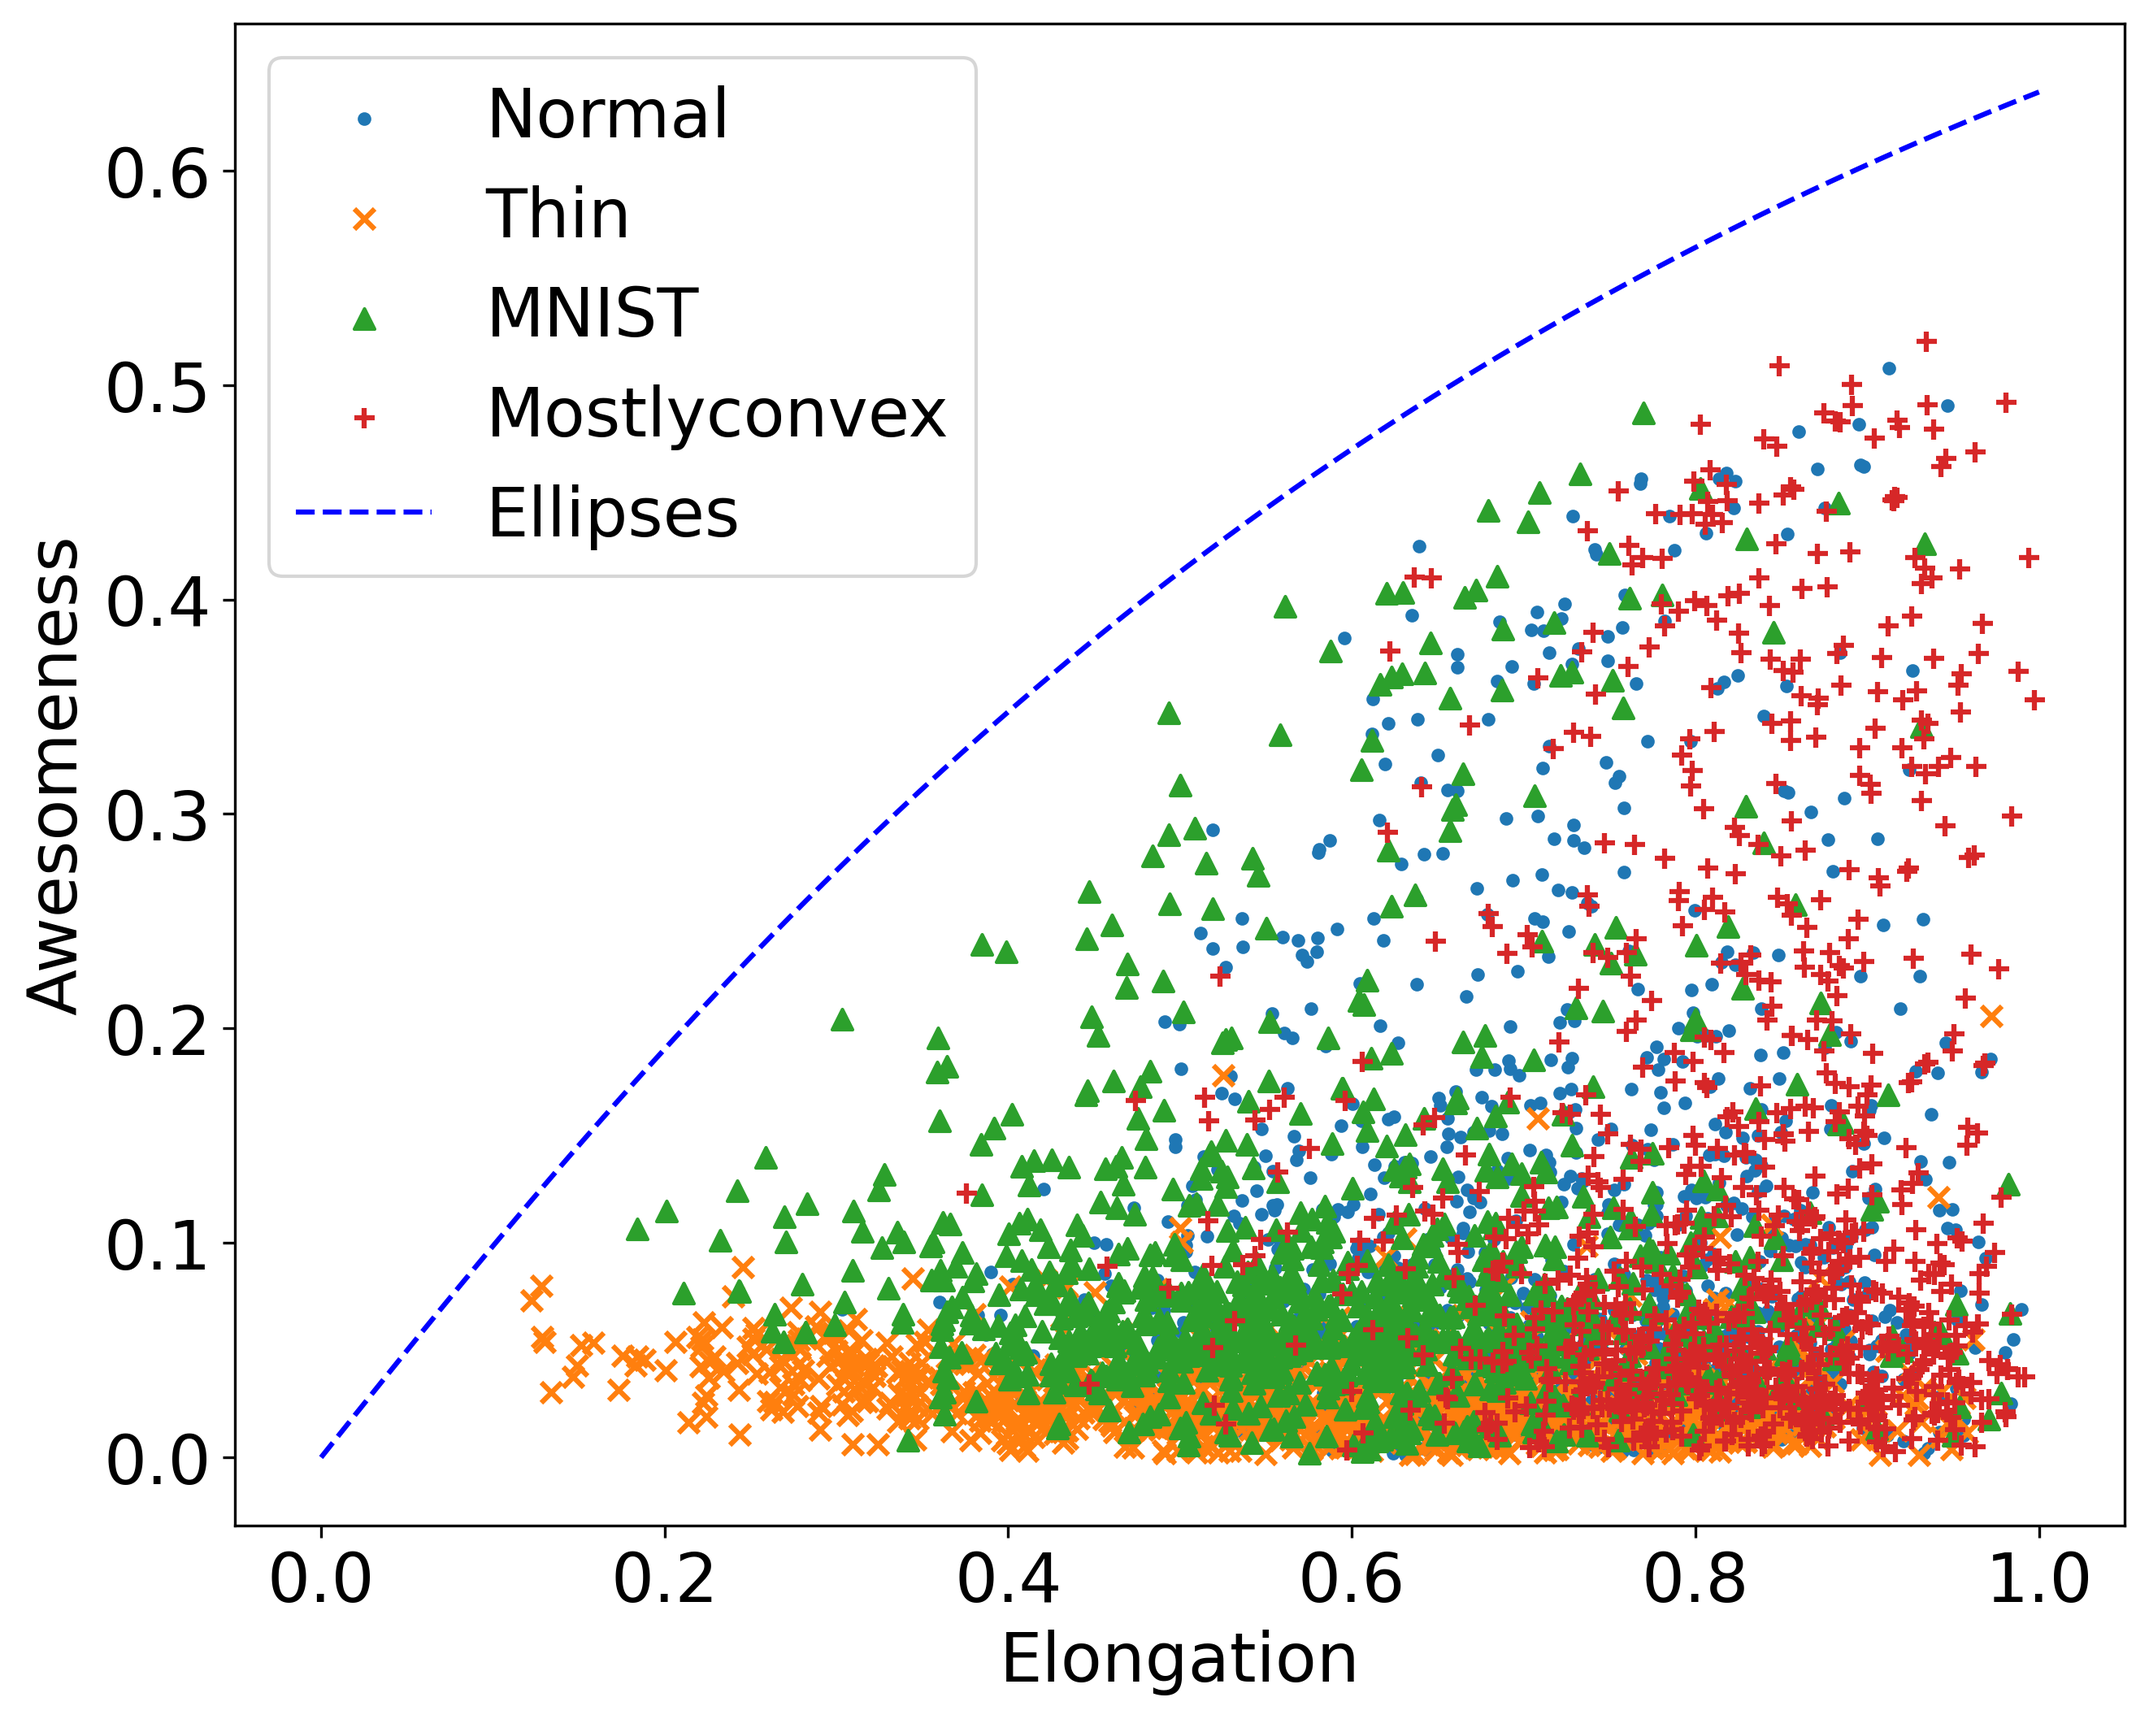
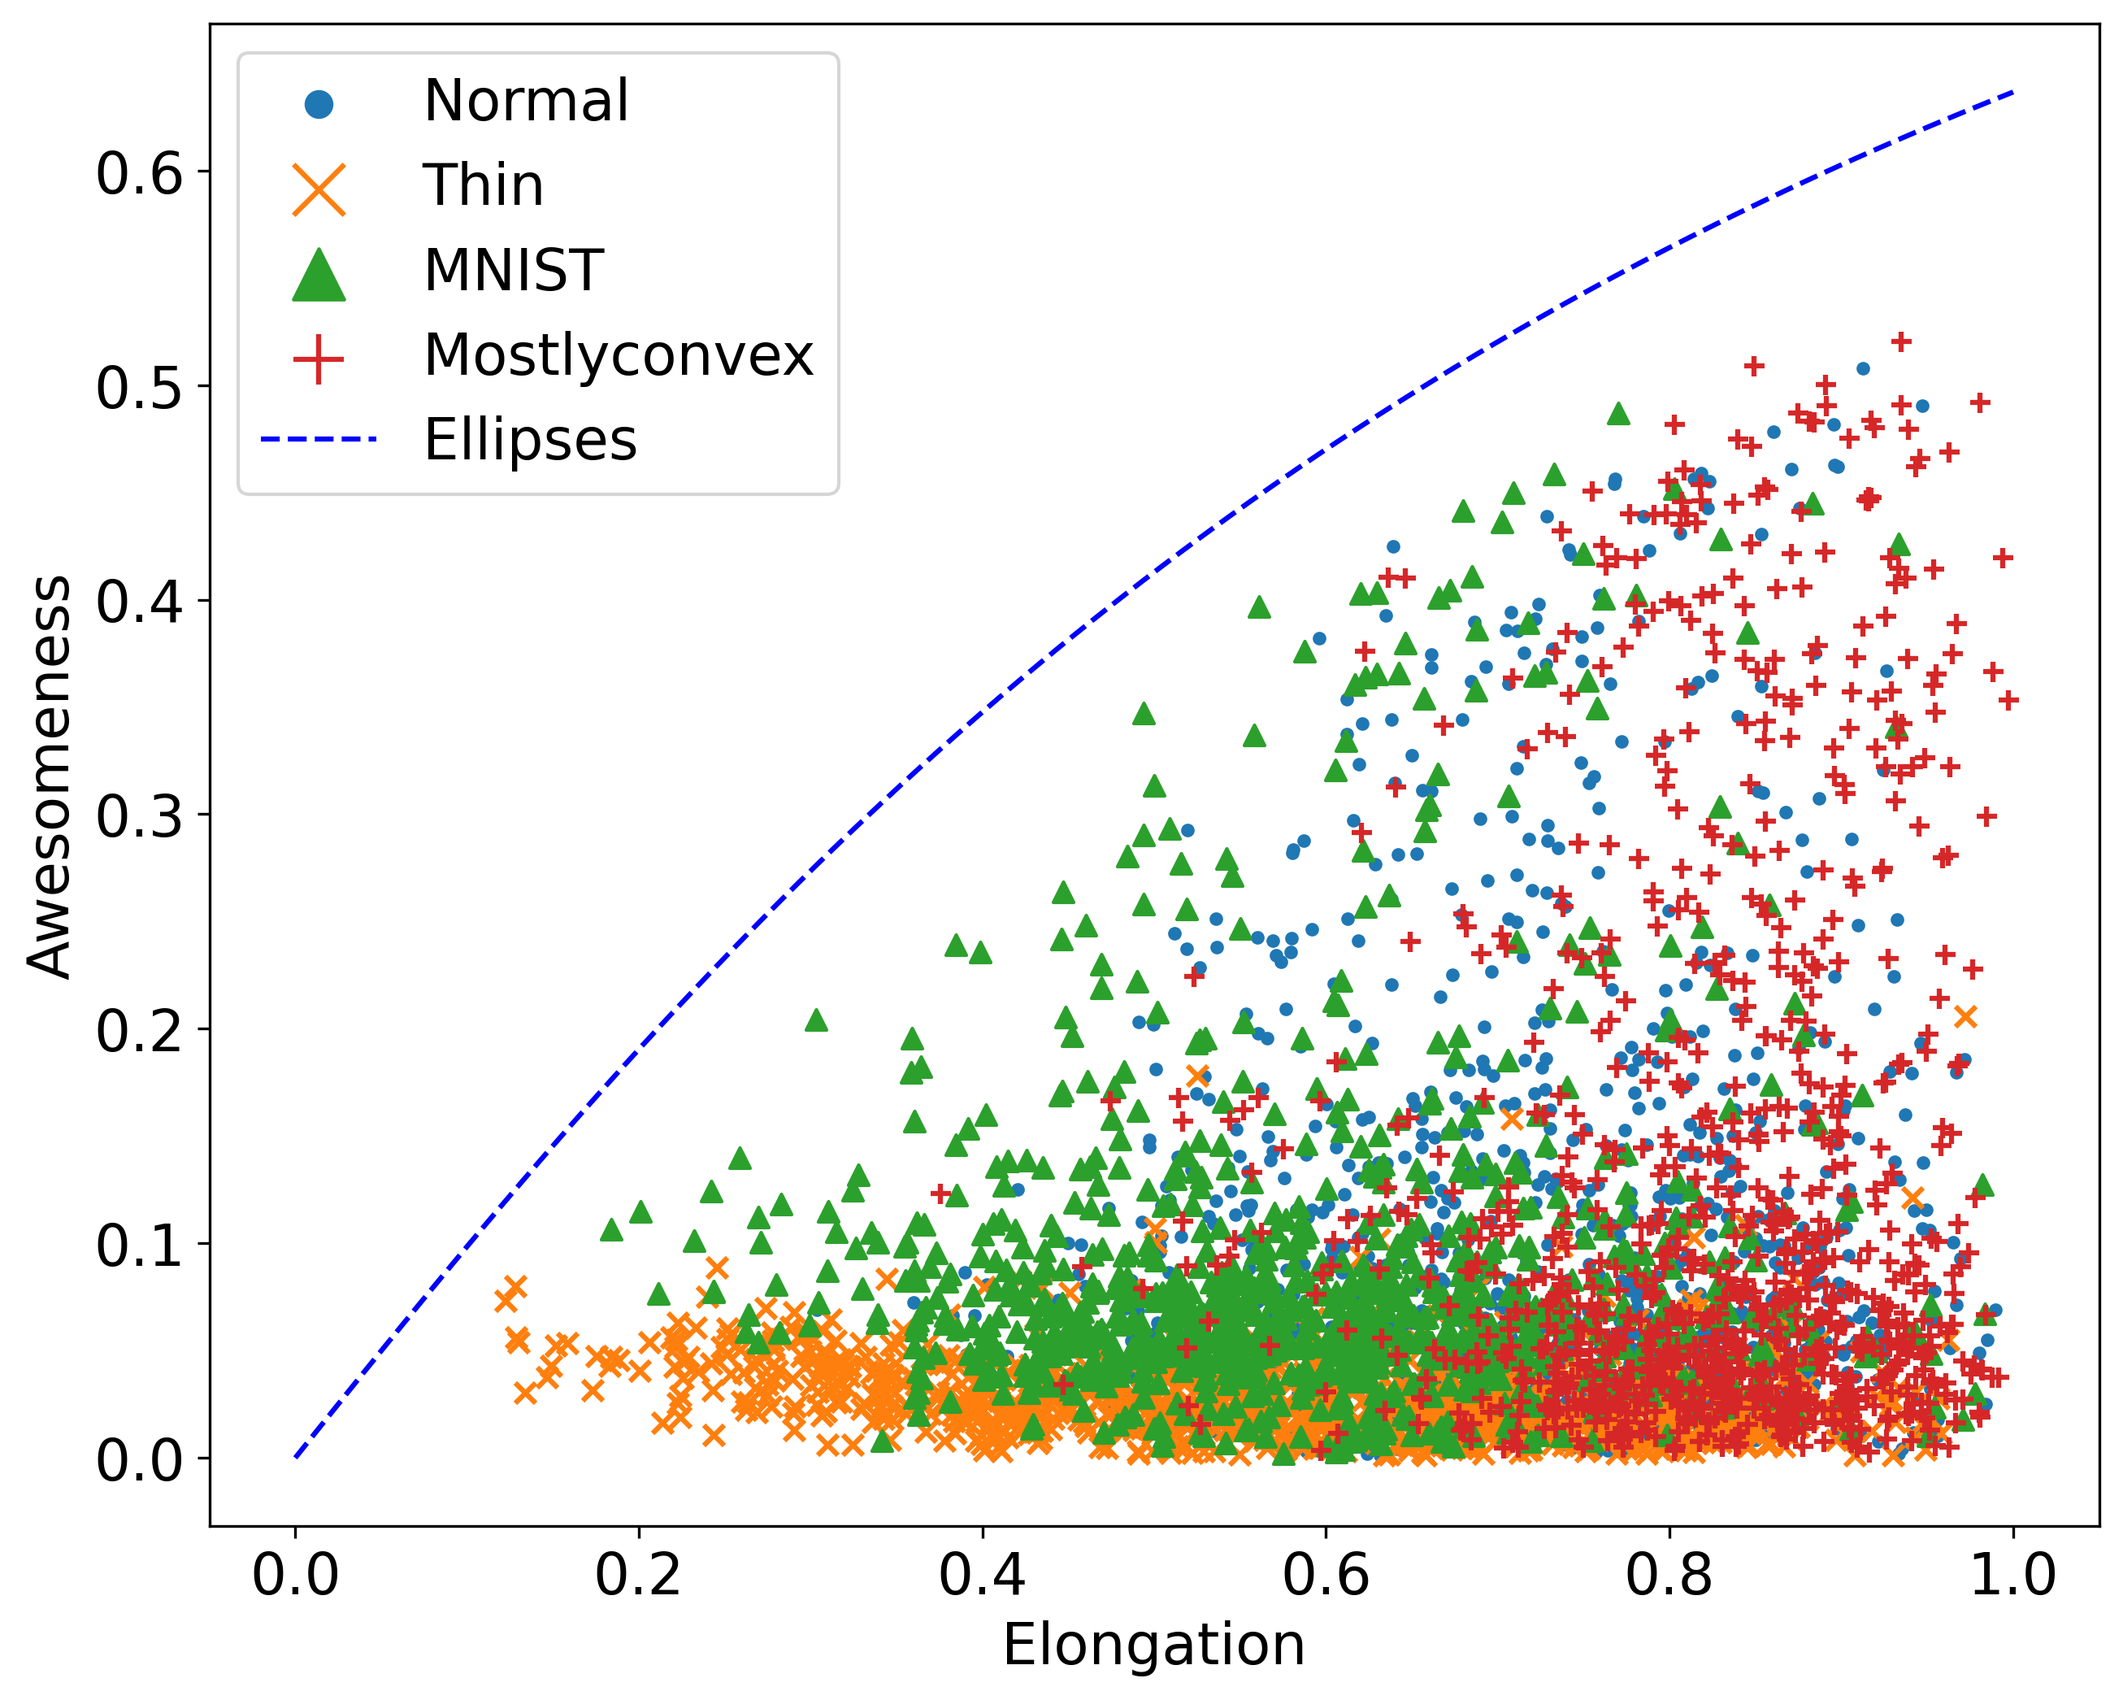
Further progress

diff --git a/paper.tex b/paper.tex
@@ -77,6 +77,7 @@ $B$ is a set of all points on the pore's boundary. We define a new pore shape
 parameter $p$, called ``\highlight{awesomeness}'', using \ref{eq:intro}:
 \begin{equation}
   p = \inf \{p_{AB} \ \forall (A, B) \in B^2\}
+  \label{eq:awesomeness}
 \end{equation}
 Obviously, it's unlikely that $p$ = $p_{AC}$ because $L_{AC} \approx \rho_{AC}$.
 It's easy to see that $0 \le p \le 1$ because $0 \le \rho_{AB} \le L_{AB}$ for
@@ -300,7 +301,7 @@ degenerate shapes in the form of line segments. The biggest value for
 non-degenerate shapes is reached for a disk and equals to $2/\pi$.
 
 \section{Results}
-We computed \highlight{awesomness} for 4000 synthetically generated images with
+We computed \highlight{awesomeness} for 4000 synthetically generated images with
 dimensions $1000 \times 1000$ pixels (1000 images from 4 different
 datasets). The datasets have the following properties:
 \begin{itemize}
@@ -312,7 +313,7 @@ datasets). The datasets have the following properties:
 \end{itemize}
 Figure \ref{fig:pores} depicts a pore from each dataset.
 \begin{figure}
-    \centering
+  \centering
   \subfigure[\texttt{normal}]{
     \includegraphics[width=0.4\linewidth]{images/normal.png}}
   \subfigure[\texttt{thin}]{
@@ -327,8 +328,87 @@ Figure \ref{fig:pores} depicts a pore from each dataset.
   \label{fig:pores}
 \end{figure}
 
-\section{Comparison with other parameters}
-\highlight{CEA vs CER}.
+Summarly 3901 images out of 4000 (97.5\%) were good enough for \texttt{sort} to
+sort boundary points in pores. For these images we also computed commonly used
+convexity and elongation parameters. On \cref{fig:cae-space} each pore is
+represented as a dot in convexity-elongation-\highlight{awesomeness} (CEA)
+space.
+\begin{figure*}
+  \centering
+  \subfigure[Convexity-elongation-\highlight{awesomeness} space]{
+    \includegraphics[width=0.4\linewidth]{images/cae.png}
+    \label{fig:cae-space}}
+  \hfill
+  \subfigure[Convexity-elongation-roundness space]{
+    \includegraphics[width=0.4\linewidth]{images/cer.png}
+    \label{fig:cer-space}}
+  \vskip\baselineskip
+  \subfigure[Elongation-\highlight{Awesomeness} space]{
+    \includegraphics[width=0.4\linewidth]{images/ae.png}
+    \label{fig:ae-space}}
+  \hfill
+  \subfigure[Convexity-elongation-\highlight{improved awesomeness} space]{
+    \includegraphics[width=0.4\linewidth]{images/caei.png}
+    \label{fig:caei-space}}
+  \caption[]{Synthetically generated pores shown as points in different
+    parameter spaces.}
+  \label{fig:parameter-spaces}
+\end{figure*}
+
+It can be seen that if a pore has low convexity ($< 0.6$)
+\highlight{awesomeness} adds no information to the pore's descriptors because it
+stays relatively low for all pores. When, however, the convexity is high it adds
+a new dimension to the parameter space. \highlight{Awesomeness} also correlates
+with elongation, but this correlation can be reduced. Remember, that a disk has
+the biggest known \highlight{awesomeness}. Similarly, an ellipse defined as
+\begin{equation*}
+  \frac{x^2}{a^2} + \frac{y^2}{b^2} = 1
+\end{equation*}
+has the biggest known \highlight{awesomeness} from all shapes with elongation
+$E = a / b$ (suppose $a \le b$) (see \cref{fig:ae-space}). Using Ramanujan's
+formular for the perimeter of an ellipse we get
+\begin{equation*}
+  p \le p_{ellipse} = \frac{2a}{P/2} \approx \frac{4E}{\pi[3(1+E) - \sqrt{(3E+1)(E+3)}]}
+\end{equation*}
+By dividing \highlight{awesomeness} by $p_{ellipse}$ we obtain an improved
+parameter $p'$:
+\begin{equation}
+  p' = \frac{\pi p [3(1+E) - \sqrt{(3E+1)(E+3)}]}{4E}
+  \label{eq:improved-awesomeness}
+\end{equation}
+Indeed, on \cref{fig:caei-space} we see that improved awesomeness is less
+correlated with elongation.
+
+Another common parameter for describing pore shapes is roundness. Figure
+\ref{fig:cer-space} features convexity-elongation-roundness (CER) space.
+It can be seen that roundness-convexity correlation is bigger than
+awesomeness-convexity correlation. All correlation values are in
+\cref{tab:correlations}.
+\begin{table*}[!htp]
+  \centering
+  \begin{tabular}{|c|c|c|c|c|}
+    \hline
+    & Awesomeness & Elongation & Convexity & Roundness \\
+    \hline
+    Awesomeness & 1 & 0.049 & 0.557 & 0.745 \\
+    \hline
+    Elongation & & 1 & 0.457 & 0.355 \\
+    \hline
+    Convexity &&& 1 & 0.922 \\
+    \hline
+    Roundness &&&& 1 \\
+    \hline
+  \end{tabular}
+  \caption{Correlation between shape describing parameters.}
+  \label{tab:correlations}
+\end{table*}
+
+To test abilities of the awesomeness parameter we now divide our pores in groups
+with different convexity. The first group has pores with convexity $0.55 \le C < 0.65$,
+the second -- $0.65 \le C < 0.75$, the third -- $0.75 \le C < 0.85$ and the fourth
+-- $0.85 \le C < 0.95$. Five images with the biggest awesomeness and five images
+with the smallest awesomeness from each group are shown on \highlight{image
+  number 100500}.
 
 \bibliography{paper}
 \end{document}

diff --git a/scripts/plot-cae.py b/scripts/plot-cae.py
@@ -5,11 +5,15 @@ import matplotlib.pyplot as plt
 import pandas as pd
 import sqlite3
 
+f = lambda e: 4*e/(np.pi * (3*(1+e) - np.sqrt((3*e+1) * (e+3))))
+
 with sqlite3.connect('glyphs.db') as db:
     general = pd.read_sql_query('select * from pores where lfer > 0.9', db)
 
 shit = pd.read_csv('score.csv')
 data = general.merge(shit, on = 'label', how = 'inner', validate = "1:1")
+
+data['score'] = data['score'] / f(data['elongation'])
 
 normal = data.query('name == "normal/"')
 thin = data.query('name == "thin/"')
@@ -17,15 +21,15 @@ mnist = data.query('name == "mnist/"')
 mostlyconvex = data.query('name == "mostlyconvex/"')
 
 fig = plt.figure(figsize = (10, 9), dpi = 300)
-plt.rc('font', size = 14)
+plt.rc('font', size = 17)
 ax = fig.add_subplot(projection = '3d')
+ax.view_init(elev = 18, azim = -40, roll = 0)
 ax.scatter(normal['convexity'], normal['elongation'], normal['score'], marker = '.')
 ax.scatter(thin['convexity'], thin['elongation'], thin['score'], marker = 'x')
 ax.scatter(mnist['convexity'], mnist['elongation'], mnist['score'], marker = '^')
 ax.scatter(mostlyconvex['convexity'], mostlyconvex['elongation'], mostlyconvex['score'], marker = '+')
-ax.set_xlabel('Convexity')
-ax.set_ylabel('Elongation')
+ax.set_xlabel('\nConvexity', linespacing = 2)
+ax.set_ylabel('\nElongation', linespacing = 2)
 ax.set_zlabel('Awesomeness')
-ax.view_init(elev = 18, azim = -40, roll = 0)
 ax.legend(['Normal', 'Thin', 'MNIST', 'Mostlyconvex'], markerscale = 2.5)
-plt.savefig('cae.png', bbox_inches = 'tight', pad_inches = 0.4)
+plt.savefig('caei.png', bbox_inches = 'tight', pad_inches = 0.4)

diff --git a/scripts/plot-cer.py b/scripts/plot-cer.py
@@ -1,0 +1,28 @@
+#!/usr/bin/env python
+
+import numpy as np
+import matplotlib.pyplot as plt
+import pandas as pd
+import sqlite3
+
+with sqlite3.connect('glyphs.db') as db:
+    data = pd.read_sql_query('select * from pores where lfer > 0.9', db)
+
+normal = data.query('name == "normal/"')
+thin = data.query('name == "thin/"')
+mnist = data.query('name == "mnist/"')
+mostlyconvex = data.query('name == "mostlyconvex/"')
+
+fig = plt.figure(figsize = (10, 9), dpi = 300)
+plt.rc('font', size = 17)
+ax = fig.add_subplot(projection = '3d')
+ax.view_init(elev = 18, azim = -40, roll = 0)
+ax.scatter(normal['convexity'], normal['elongation'], normal['sphericity'], marker = '.')
+ax.scatter(thin['convexity'], thin['elongation'], thin['sphericity'], marker = 'x')
+ax.scatter(mnist['convexity'], mnist['elongation'], mnist['sphericity'], marker = '^')
+ax.scatter(mostlyconvex['convexity'], mostlyconvex['elongation'], mostlyconvex['sphericity'], marker = '+')
+ax.set_xlabel('\nConvexity', linespacing = 2)
+ax.set_ylabel('\nElongation', linespacing = 2)
+ax.set_zlabel('Roundness')
+ax.legend(['Normal', 'Thin', 'MNIST', 'Mostlyconvex'], markerscale = 2.5)
+plt.savefig('cer.png', bbox_inches = 'tight', pad_inches = 0.4)

diff --git a/scripts/plot-ae.py b/scripts/plot-ae.py
@@ -20,13 +20,13 @@ f = lambda e: 4*e/(np.pi * (3*(1+e) - np.sqrt((3*e+1)*(e+3))))
 xs = np.linspace(0, 1, 100)
 
 plt.figure(figsize = (10, 8), dpi = 300)
-plt.rc('font', size = 20)
+plt.rc('font', size = 17)
 plt.scatter(normal['elongation'], normal['score'], marker = '.')
 plt.scatter(thin['elongation'], thin['score'], marker = 'x')
 plt.scatter(mnist['elongation'], mnist['score'], marker = '^')
 plt.scatter(mostlyconvex['elongation'], mostlyconvex['score'], marker = '+')
 plt.plot(xs, f(xs), 'b--')
-plt.legend(['Normal', 'Thin', 'MNIST', 'Mostlyconvex', 'Ellipses'])
+plt.legend(['Normal', 'Thin', 'MNIST', 'Mostlyconvex', 'Ellipses'], markerscale = 2.5)
 plt.xlabel('Elongation')
 plt.ylabel('Awesomeness')
 plt.savefig('ae.png', bbox_inches = 'tight')
